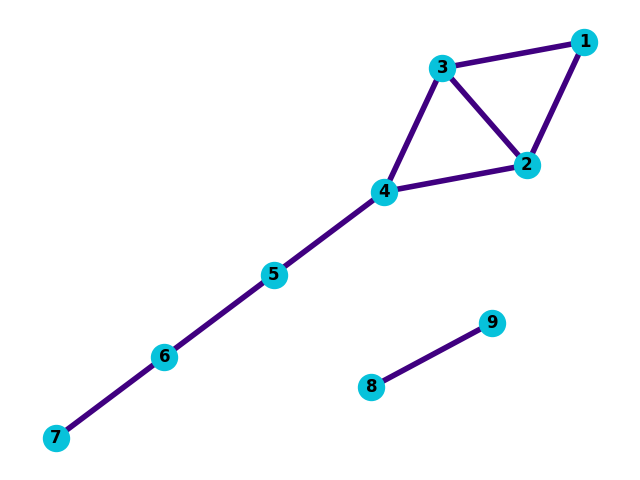
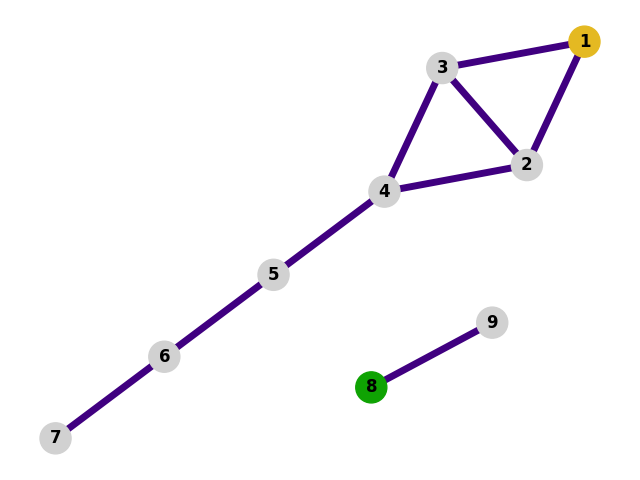
Enhanced demostration code: better clarity and usability & highlighted results

diff --git a/main.py b/main.py
@@ -6,8 +6,30 @@ import argparse
 
 import matplotlib.pyplot as plt
 import networkx as nx
+import random
 
 import graph as g
+
+def random_color() -> str:
+    """ Return random color.
+
+    Returns:
+        str: random color.
+    """
+    return f'#{random.randint(0, 255):02x}{random.randint(0, 255):02x}{random.randint(0, 255):02x}'
+
+def color_nodes(graph: (nx.Graph | nx.DiGraph), \
+                 node_colors: list[str], nodes_to_color: (list[int] | set[int])):
+    """ Colors nodes in graph.
+
+    Args:
+        graph (nx.Graph  |  nx.DiGraph): The graph.
+        nodes_to_color (list[int]  |  set[int]): The nodes to be colored.
+    """
+
+    for node in nodes_to_color:
+        node_index = list(graph.nodes).index(node)
+        node_colors[node_index] = random_color()
 
 def main():
     """
@@ -16,11 +38,11 @@ def main():
 
     parser = argparse.ArgumentParser(description="Library for analyzing graph connectivity")
     parser.add_argument("function", choices=[
-        "read-file",
-        "search-bridges",
-        "search-component-connectivity",
-        "search-points-connectivity",
-        "search-component-strong-connectivity",
+        "read",
+        "s-bridges",
+        "s-component-conn",
+        "s-points-conn",
+        "s-component-strong-conn",
     ], help="Functions to perform")
 
     parser.add_argument("graph_file", type=str, help="Path to the CSV file containing the vertices")
@@ -39,44 +61,71 @@ def main():
 
     result = ''
 
+    graph = nx.DiGraph(adjacency_list) if args.directed else nx.Graph(adjacency_list)
+
+    node_colors = ['#d1d1d1'] * len(graph.nodes)
+    edges_colors = ['#400080'] * len(graph.edges)
+    hint_graph = ''
+
     match(args.function):
-        case "search-bridges":
+        case "s-bridges":
             result = g.search_bridges(adjacency_list)
-        case"search-component-connectivity":
+
+            if isinstance(result, list):
+                hint_graph = '(Bridges are colored red)'
+
+                for bridge in result:
+                    edge_index = list(graph.edges).index(bridge)
+                    edges_colors[edge_index] = '#ff0000'
+
+        case"s-component-conn":
             result = g.search_component_connectivity(adjacency_list)
-        case "search-points-connectivity":
+
+            if isinstance(result, list):
+                hint_graph = '(The smallest nodes of each component are colored different colors)'
+
+                color_nodes(graph, node_colors, result)
+
+        case "s-points-conn":
             result = g.search_points_connectivity(adjacency_list)
-        case "search-component-strong-connectivity":
+
+            if isinstance(result, set):
+                hint_graph = '(Points of connectivity are colored different colors)'
+
+                color_nodes(graph, node_colors, result)
+
+        case "s-component-strong-conn":
             result = g.search_component_strong_connectivity(adjacency_list)
-        case "read-file":
+
+            if isinstance(result, set):
+                hint_graph = '(The smallest nodes of each component are colored different colors)'
+
+                color_nodes(graph, node_colors, result)
+
+        case "read":
             result = f'The adjacency list of graph: {adjacency_list}'
         case _:
             parser.error("Unknown command")
 
-    graph = nx.Graph(adjacency_list)
-
-    if args.directed:
-        graph = nx.DiGraph(adjacency_list)
-
     graph_options = {
-        'node_color': '#07c2db',
-        'edge_color': '#400080',
+        'node_color': node_colors,
+        'edge_color': edges_colors,
         'with_labels': True,
         'font_weight': 'bold',
-        'node_size': 350,
-        'width': 4
+        'node_size': 500,
+        'width': 5
     }
-
-    nx.draw_kamada_kawai(graph, **graph_options)
-    plt.savefig("graph.png")
-
-    result = 'Graph was represented in new file "graph.png"'
 
     print(f'Result: {result}')
 
+    if args.show:
+        nx.draw_kamada_kawai(graph, **graph_options)
+        plt.savefig("graph.png")
+        print(f'Graph was represented in new file "graph.png". {hint_graph}')
+
     if args.output:
         if g.write_file(args.output, adjacency_list):
-            print(f"Graph was written to {args.output}")
+            print(f"Graph was written to {args.output}.")
         else:
             print("Failed to write graph to file.")
 

diff --git a/graph.py b/graph.py
@@ -218,7 +218,7 @@ def search_component_connectivity(adjacency_list: dict[int, list[int]] | None = 
     """
 
     if orientation_check(adjacency_list):
-        return "Graph should be undirected"
+        return "Graph should be undirected."
 
     closed = []
     component = []
